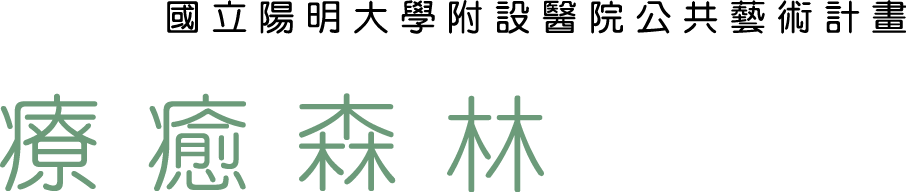
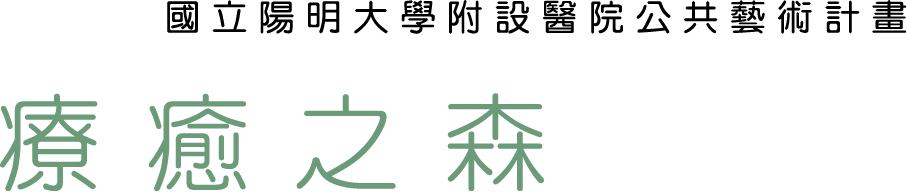
療癒森林-

Changed region(s): [[0.4945, 0.5, 0.6181, 1.0], [0.3091, 0.5, 0.4636, 1.0]]

diff --git a/src/views/Plans/PlanIdea.vue b/src/views/Plans/PlanIdea.vue
@@ -25,7 +25,7 @@
         p 本院雖屬萌芽發生階段，由於營運穩健成長，目前新民院區空間已不敷使用，為了給予民眾醫學中心級的醫療服務，包括照顧品質及就醫環境，而有新建蘭陽院區的計畫。也同步進行公共藝術設置計畫(*文化部公共藝術設置辦法規定「公有建築物造價百分之一」需作為公共藝術設置之用)，故委託羅傑藝術文化有限公司協助代辦及徵選公共藝術，邀請本院院長羅世薰、社區醫學中心主任徐迺維、建築師許常吉、台北藝術大學美術學院美術學系教授張正仁老師、理繼文化藝術有限公司總監李良仁、中冶環境造型顧問有限公司代表郭中端、銘傳大學商業設計系專任教授陳振輝、田中央聯郭合建築師事務所建築師黃聲遠及宜蘭大學建築及永續規劃究所專任副教授何武璋，為本案擔任執行及徵選小組委員。
         p 本公共藝術設置計畫以公開徵選方式，徵選出京石文化設計有限公司為本院設置公共藝術，包含了永久性及臨時性公共藝術作品、民眾參與活動及揭幕表演屌覽活動等等。
         h1 公共藝術設置理念
-        h2(style="color:#00B050") 主題: 療癒森林
+        h2(style="color:#00B050") 主題: 療癒之森
         p(style="color:#9B6233") 史懷哲所說名言： 「每個人心中都有他的蘭巴倫」
         p 生命如同是顆樹，聖經的第一卷書「創世紀」中記載：伊甸園裡有許多樹，其中有生命樹。人吃了善惡樹的禁果之後被趕出伊甸，不能摘食生命樹。在聖經的最後一本書「啟示錄」裡，宇宙的新天新地裡有生命樹所結的果子，是為醫治萬民。療癒之森是人類企盼的原鄉。森林療法打開了一扇門，通往回到伊甸的路。睽違千萬年的生命樹，正等我們去擁抱！
         p(style="color:#008500") 休， 是人依靠著樹木， 森林是充滿無聲之聲， 遠離日常生活的療癒空間。

diff --git a/src/views/Scenes/LatScenes1.vue b/src/views/Scenes/LatScenes1.vue
@@ -29,7 +29,7 @@
         h1 揭幕表演暨導覽活動
         p 國立陽明大學附設醫院成立於2008年，是最年輕的大學附設醫院，為了給予民眾醫學中心級的醫療服務，而新建了蘭陽院區也同時繼續加強醫護人員以“病人為中心”的醫療觀念，提供更貼心更人性化的服務，讓來到院區的民眾及病友都能感受到醫院用心的照顧及治療。
         p 醫學科學不斷創新的今日，人類試圖與疾病對抗、與生命的長度賽跑，一劑又一劑的疫苗被開發，用來消滅各類的病菌、延緩人們的老化。然而藝術的介入，便是試圖在這樣令人不安的醫療空間中，讓所有受傷的心靈可以得到慰藉與撫平。
-        p 國立陽明大學附設醫院提供民眾療癒身心的空間，並用最細心及專業的技術為病友減輕痛苦，因此京石文化設計有限公司針對國立陽明大學附設醫院，以「療癒森林」作為主題，並邀請五位國內外藝術家設計作品，期待作品能夠將醫院療癒病患的印象藉由作品柔和地傳達與民親近，提升醫院形象。
+        p 國立陽明大學附設醫院提供民眾療癒身心的空間，並用最細心及專業的技術為病友減輕痛苦，因此京石文化設計有限公司針對國立陽明大學附設醫院，以「療癒之森」作為主題，並邀請五位國內外藝術家設計作品，期待作品能夠將醫院療癒病患的印象藉由作品柔和地傳達與民親近，提升醫院形象。
         p 於106年6月16日在國立陽明大學附設醫院蘭陽院區舉行公共藝術設置剪綵儀式，並邀請國立陽明大學附設醫院院長 羅世薰院長、副院長、主任秘書、主計及藝術家團隊共同剪綵，為開幕導覽活動揭開序幕。並邀請藝術家親臨現場，分享藝術作品之創作理念，與民眾近距離互動交流。
         
         .row

diff --git a/index.html b/index.html
@@ -2,7 +2,7 @@
 <html>
   <head>
     <meta charset="utf-8">
-    <title>國立陽明大學附設醫院公共藝術計劃-療癒森林</title>
+    <title>國立陽明大學附設醫院公共藝術計劃-療癒之森</title>
     
   </head>
   <body>
